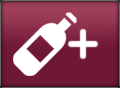
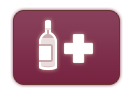
better add-wine button

diff --git a/Controllers/RaisedTabBarController.m b/Controllers/RaisedTabBarController.m
@@ -141,7 +141,7 @@
 	
 	[self setViewControllers:@[winePaperFoldNC,
                             countryNavController,
-                            [self viewControllerWithTabTitle:@"Add" image:nil],
+                            [self viewControllerWithTabTitle:@"" image:nil],
                             varietalNavController,
                             paperFoldNavController]];
 	
